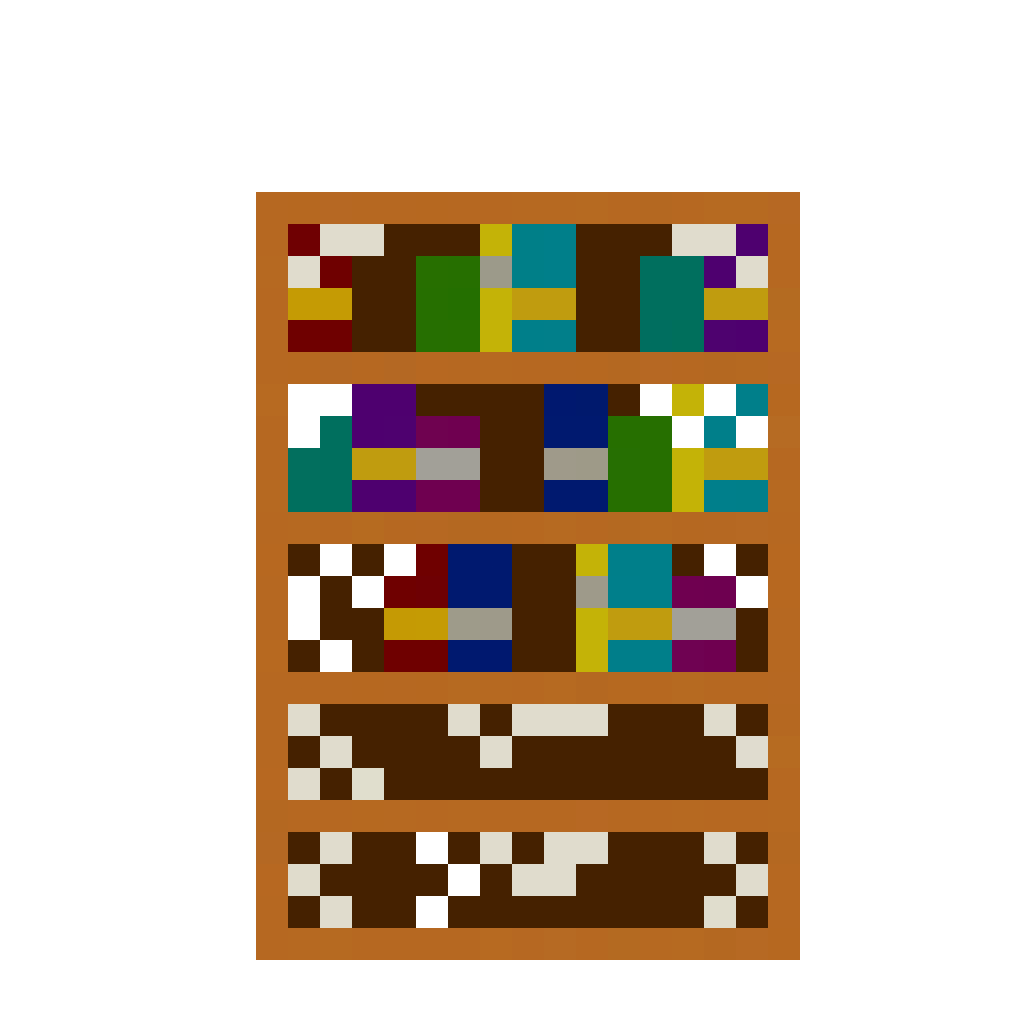
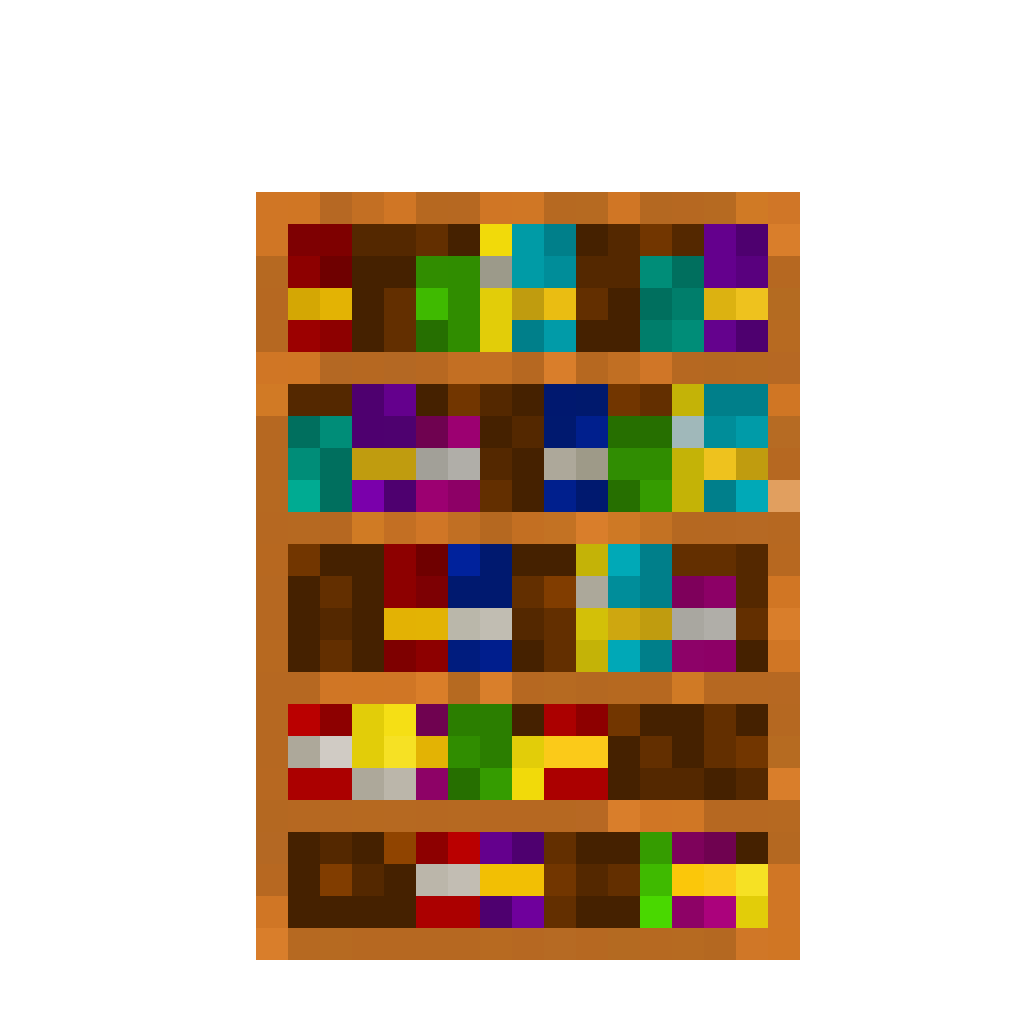
Additions

diff --git a/rooms/rooms.py b/rooms/rooms.py
@@ -70,11 +70,11 @@ class Room1(Entrance):
 
         if self.nxt_room_rect.collidepoint(mouse_pos):
             pygame.draw.rect(self.screen, 'grey', self.hover_rect_next, 0, 2)
-            if click: return "next"
+            if click: 
+                return "next"
 
         if self.back_rect.collidepoint(mouse_pos):
             pygame.draw.rect(self.screen, 'grey', self.hover_rect_back, 0, 2)
-            if click: return "back"
 
     def draw(self):
         self.screen.blit(self.room_number_text, self.room_number_rect)
@@ -107,17 +107,12 @@ class WhiteRoom(DefaultRoom):
 
     def hover_effect(self):
         mouse_pos = pygame.mouse.get_pos()
-        click = pygame.mouse.get_pressed()[0]
 
         if self.back_rect.collidepoint(mouse_pos):
             pygame.draw.rect(self.screen, 'grey', self.back_rect_hover, 0, 2)
-            if click: 
-                print ("clicking back")
-                return "back"
 
         if self.nxt_room_rect.collidepoint(mouse_pos):
             pygame.draw.rect(self.screen, 'grey', self.hover_rect_next, 0, 2)
-            if click: return "next"
 
     def draw(self):
         self.screen.blit(self.back_txt, self.back_rect)
@@ -126,10 +121,8 @@ class WhiteRoom(DefaultRoom):
 
     def update(self):
         self.drag()
-        room_variable = self.hover_effect()
+        self.hover_effect()
         self.draw()
-
-        return room_variable
 
     def drag(self):
         mouse_pos = pygame.mouse.get_pos()
@@ -148,5 +141,25 @@ class WhiteRoom(DefaultRoom):
             if event.button == 1:
                 self.dragging = False
 
+
+
+# ----------------------------------------------------------------------------------------------------------------------
+
+# class WhiteRoom(DefaultRoom):
+#     def __init__(self,screen, s_width, s_height) -> None:
+#         super().__init__(screen, s_width, s_height, "", True)
+
+#         self.width, self.height = 40,40
+#         self.nxt_room_rect = pygame.Rect(0,0, self.width, self.height)
+#         self.nxt_room_rect.center = (s_width/2, s_height/2)
+
+#     def drag(self):
+
+#     def draw(self):
+#         pygame.draw.rect(self.screen, 'white', self.nxt_room_rect)
+        
+        
+#     def update(self):
+#         self.draw()
 
 
